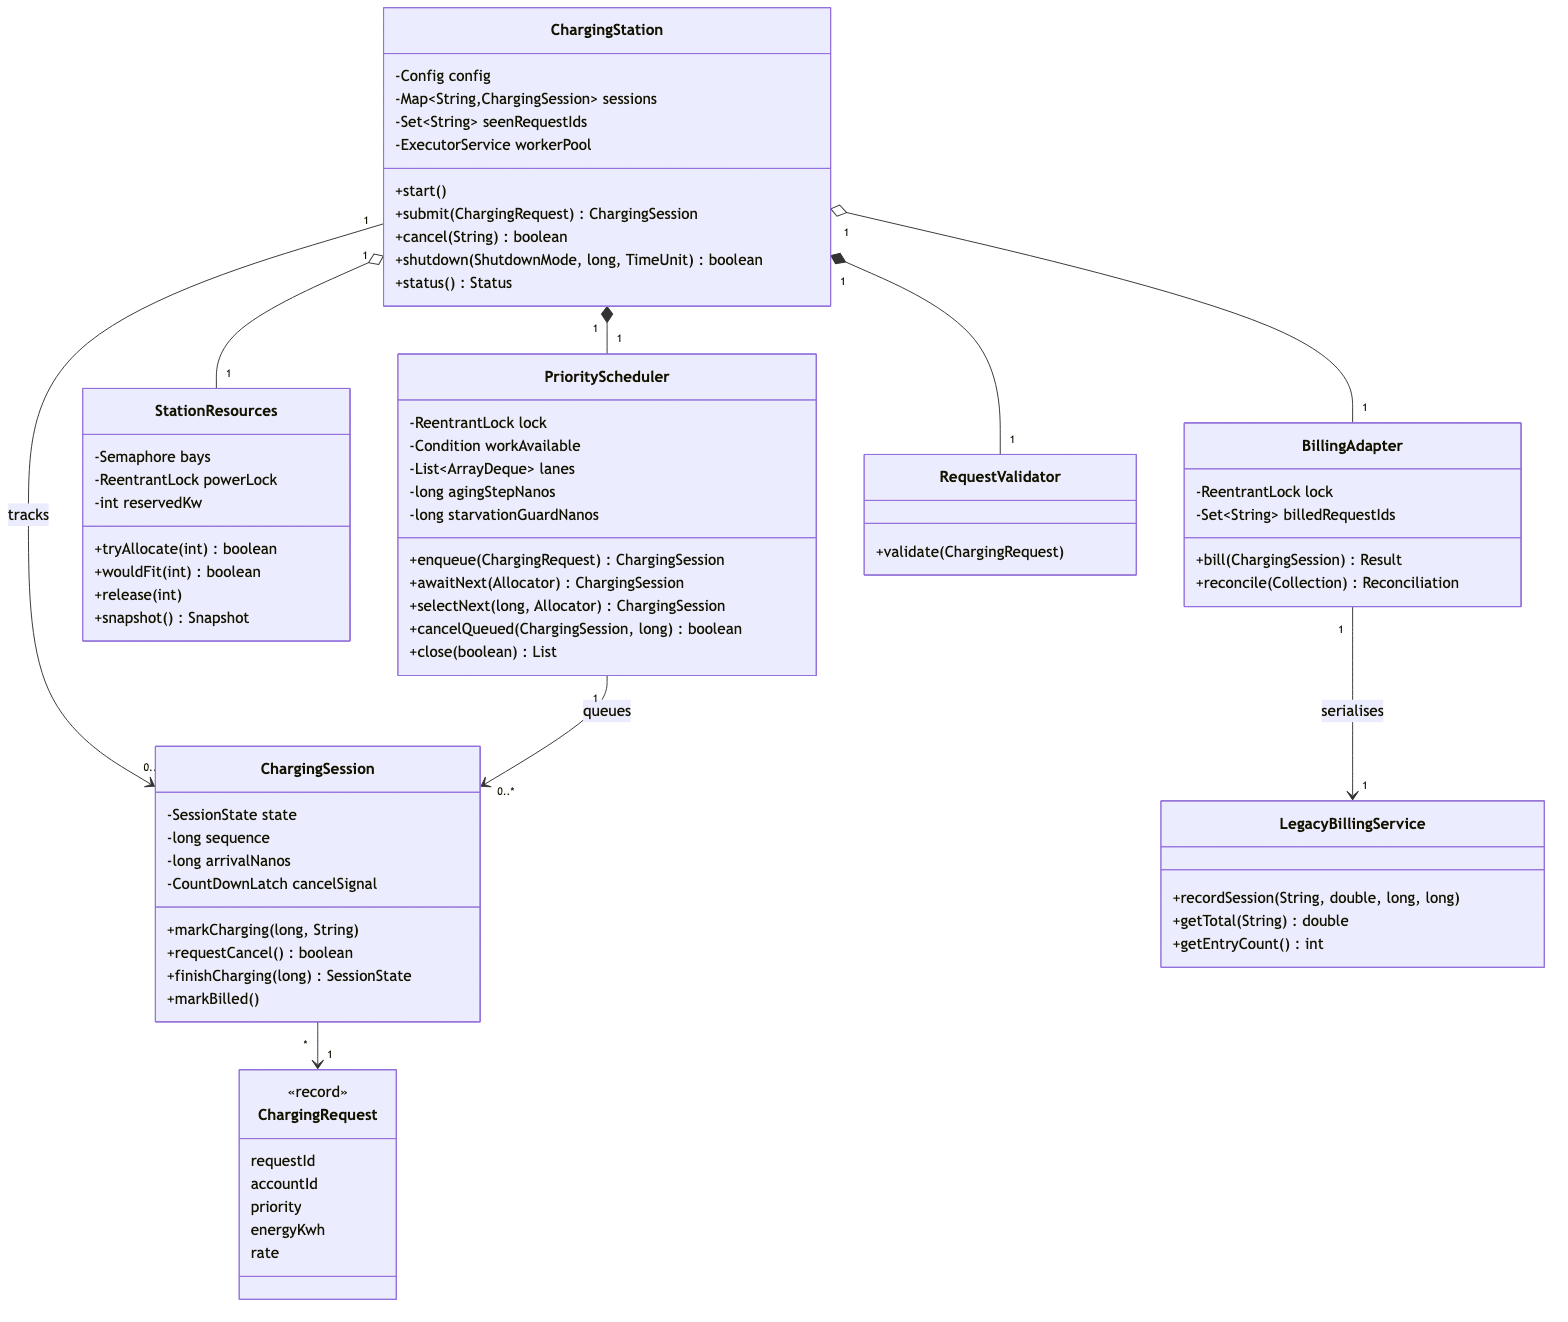
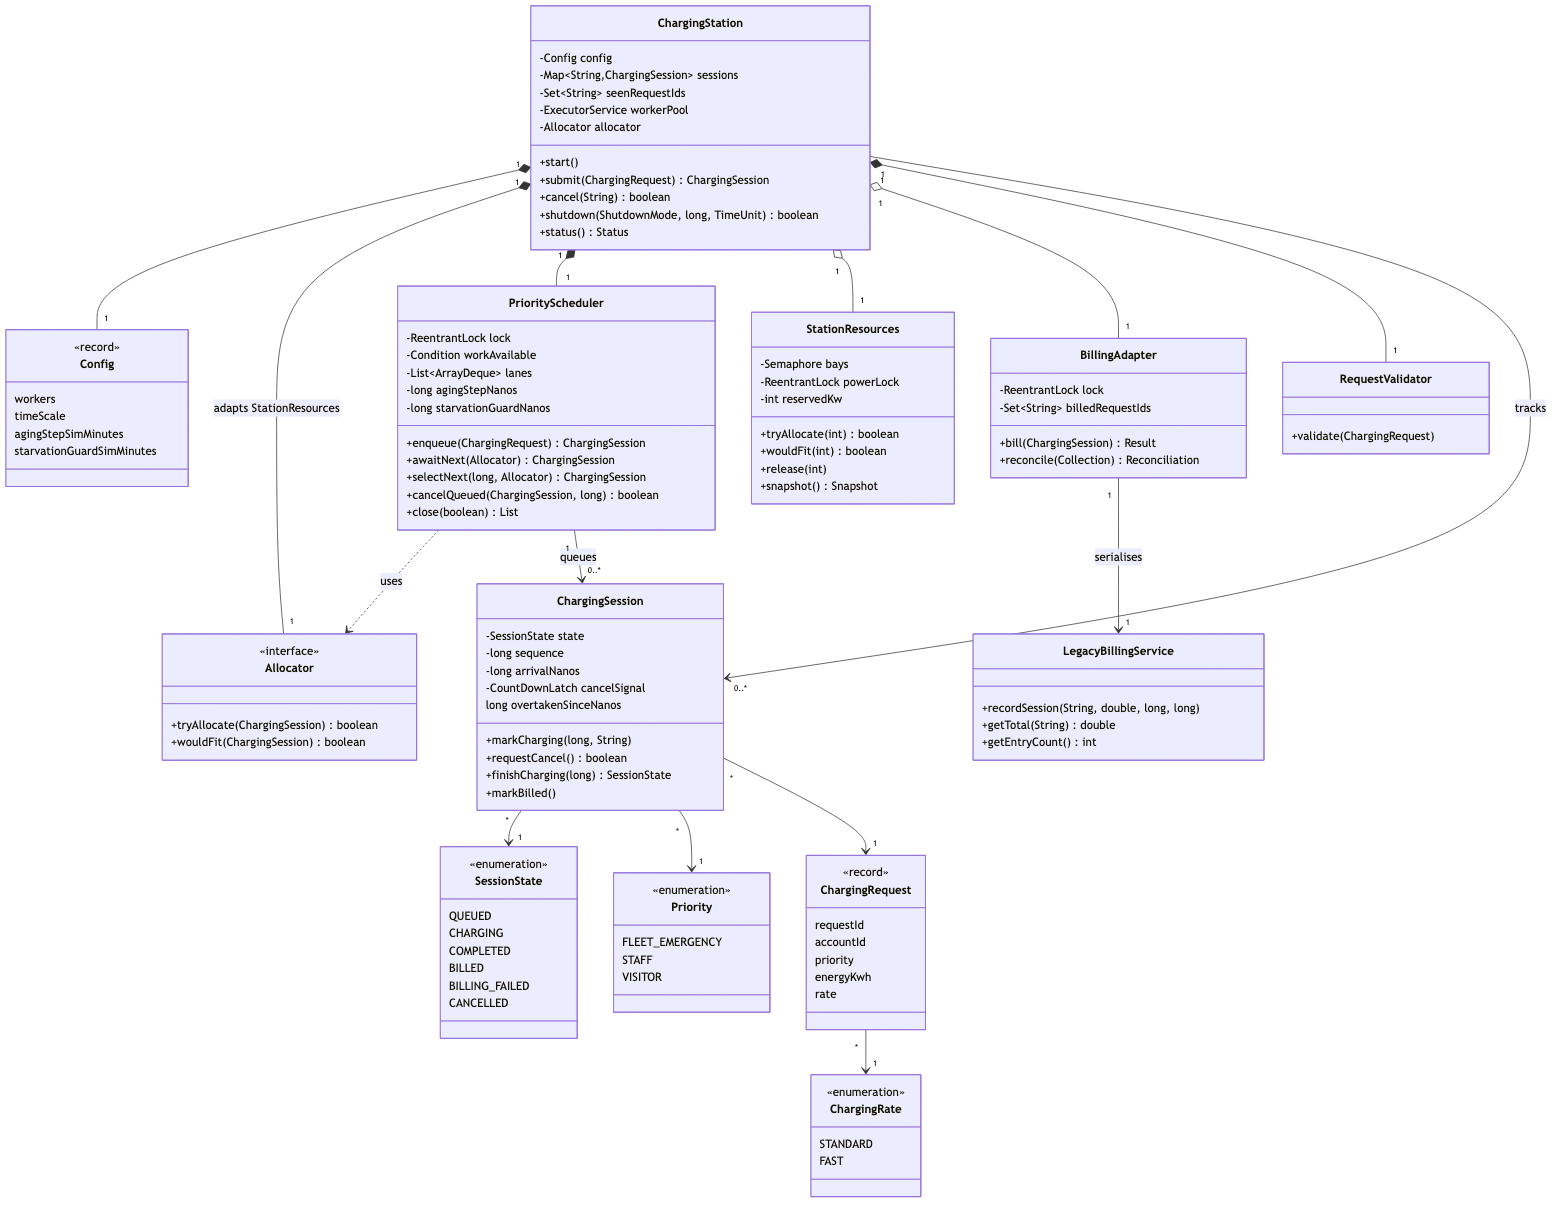
Complete UML models: Allocator/Config/enums in class diagram, cancel and billing-failure paths in sequence, include stereotype; trace contract violations to tests

diff --git a/docs/design.md b/docs/design.md
@@ -68,9 +68,18 @@ arrival in the same lane has waited at least as long, so the merge needs no sort
 
 1. **Effective priority** = `max(1, base − ⌊waited / 30 sim-min⌋)` (FR-06).
 2. Walk the merged order; the first request whose allocation succeeds starts (FR-05, FR-07).
-3. When a later request starts ahead of a front request that could not fit (a backfill), start the
-   guard clock for that front request if it is not already running. Once the same request is still the
-   front 30 sim-min after its first overtake, return nothing until it fits itself (FR-08).
+3. When a later request starts ahead of a front request that could not fit (a backfill), record
+   that front request's *first overtake time* if it has none yet (`ChargingSession.overtakenSinceNanos`).
+   Whenever a request is at the front, has been overtaken, and its first overtake was at least
+   30 sim-min ago, return nothing until it fits itself (FR-08). Running sessions are unaffected and
+   finish normally, which is what eventually frees the power it needs.
+
+The clock is stored on the request, not on "whichever request is currently at the front". The
+previous version kept a single scheduler-wide clock that restarted whenever the front request
+changed. Aging could briefly put an older visitor in front, wiping the blocked fleet request's
+accumulated time. T25 checks the fix with an explicit clock: F is overtaken at t=2; an aged visitor
+becomes front at t=61 and starts at t=62; at t=63 F is front again and backfill is refused at once.
+Observed: `[S1, S2, V, none]`.
 
 Why the clock starts at the first overtake (a design change made during evaluation): the first
 version started it at the first *failed check* of the front request. Spare threads (pool-16,
@@ -86,6 +95,13 @@ thread-per-request run (`evidence/benchmark-runs.csv`).
 Worked example (from T17): a P1 fast request F cannot fit (only 9 kW free); P2 standard S1, S2 can.
 At t=10 S1 backfills; at t=39 S2 backfills; at t=40 F has been the blocked front for 30 → nothing starts
 even though S3 would fit; once 22 kW is free F starts, then S3. Observed: `[S1, S2, none, F, S3]`.
+
+The same behaviour on a running station (T24, `evidence/test-logs/T24.txt`):
+- **Setup:** two fast sessions are charging (44 kW) and a third fast request F3 is blocked.
+- **Backfill:** S1 and S2 (standard) backfill. The guard then engages about 40 ms (≈ 40 sim-min) later.
+- **Cost:** while it holds, 2 bays and 16 kW stay idle — the accepted cost in A-06.
+- **Outcome:** when a fast session ends, F3 starts within a fraction of a millisecond. Only then do
+  the standards S3–S8 that were waiting start.
 
 Design note from the benchmark: under the evaluated load average waits are ~10 simulated hours, far
 longer than the 30-minute aging step, so almost every queued request is aged to level 1 and order
@@ -129,7 +145,7 @@ See §6.
 
 Two forms: (a) visitors overtaken forever by a stream of higher-priority requests — addressed by aging
 (T16); (b) a large (fast) request overtaken forever by smaller backfilled requests — aging cannot help a
-P1 request, so the starvation guard bounds it (T17). Limitation: bays, not power, are usually the
+P1 request, so the starvation guard bounds it (T17, T24, T25). Limitation: bays, not power, are usually the
 binding constraint for this workload, so backfill is rare (4 backfills in a 200-request run) and the
 guard activated in only 1 of 12 benchmark runs; its behaviour is primarily evidenced by the
 deterministic test T17.
@@ -188,16 +204,16 @@ The corrected variant with the same threads and interleaving completes (T20).
 | C5 | `ChargingSession` transitions | current state matches the transition's source state | state follows the state machine in §8 | terminal states never change |
 | C6 | `ChargingStation.shutdown(mode)` | station RUNNING | all station threads terminated ∧ reservedKw = 0 ∧ activeBays = 0 ∧ no session QUEUED/CHARGING | — |
 
-**Traceability** (requirement → model element → enforcement → test):
+**Traceability** (requirement → model element → enforcement → behaviour on violation → test):
 
-| # | Requirements | Model elements (§8) | Code enforcement | Tests / evidence |
-|---|---|---|---|---|
-| C1 | FR-09, FR-10, NFR-01 | Class: `StationResources.tryAllocate`; Sequence: `tryAllocate(kW) [power lock, bays.tryAcquire]`; State: QUEUED → CHARGING; Use case: UC4 | `IllegalArgumentException`; power lock; non-blocking `bays.tryAcquire()`; `assert invariantHolds()` | T03, T06, T07, T18, T20; benchmark peaks ≤ 4 bays / 58 kW |
-| C2 | FR-17 | Class: `StationResources.release`; Sequence: `release(kW) [finally]`; State: leaving COMPLETED / BILLED / BILLING_FAILED / CANCELLED after CHARGING; Use case: UC4 | `IllegalStateException` on unmatched release; `assert invariantHolds()`; called only from the `finally` in `runSession` | T09, T10, T14 |
-| C3 | FR-13, FR-14, FR-16, NFR-08 | Class: `BillingAdapter.bill` → `LegacyBillingService`; Sequence: `bill(session)`, `recordSession(...)`; State: COMPLETED → BILLED / BILLING_FAILED; Use case: UC5 | billing lock; `billedRequestIds` set; `IllegalStateException` if not COMPLETED; `assert` entry count grew by exactly 1 | T12, T14, T15; T13 for contrast |
-| C4 | FR-05–FR-08 | Class: `PriorityScheduler.selectNext`, `awaitNext`; Sequence: `awaitNext(allocator)`; State: QUEUED → CHARGING; Use case: UC1 | scheduler lock; `MergedOrder` ordering; aging in `effectivePriority`; guard via `recordOvertake` | T04, T16, T17 |
-| C5 | FR-12, FR-14, FR-15 | Class: `ChargingSession`; State: the whole session state machine; Use cases: UC2, UC4 | `synchronized` transitions; `IllegalStateException` on an illegal source state | T08, T09, T10, T11 |
-| C6 | FR-19 | Class: `ChargingStation.shutdown`; State: QUEUED / CHARGING → CANCELLED (IMMEDIATE), → COMPLETED → BILLED (GRACEFUL); Use case: UC8 | lifecycle compare-and-set; executor `awaitTermination` / `join`; `assert` that resources are 0 after termination | T10, T11; `SHUTDOWN complete` lines in `evidence/normal-run-*.txt` |
+| # | Requirements | Model elements (§8) | Code enforcement | On violation | Tests: contract holds / violation rejected |
+|---|---|---|---|---|---|
+| C1 | FR-09, FR-10, NFR-01 | Class: `StationResources.tryAllocate`; Sequence: `tryAllocate(kW) [power lock, bays.tryAcquire]`; State: QUEUED → CHARGING; Use case: UC4 | precondition check; power lock; non-blocking `bays.tryAcquire()`; `assert invariantHolds()` | kw ≤ 0 → `IllegalArgumentException`, ledger unchanged; a broken invariant → `AssertionError` (with `-ea`) | holds: T03, T06, T07, T18, T20, benchmark peaks / rejected: T21 |
+| C2 | FR-17 | Class: `StationResources.release`; Sequence: `release(kW) [finally]`; State: leaving COMPLETED / BILLED / BILLING_FAILED / CANCELLED after CHARGING; Use case: UC4 | precondition check under the power lock; `assert invariantHolds()`; only called from the `finally` in `runSession` | unmatched or oversized release → `IllegalStateException`, ledger unchanged | holds: T09, T10, T14 / rejected: T21 |
+| C3 | FR-13, FR-14, FR-16, NFR-08 | Class: `BillingAdapter.bill` → `LegacyBillingService`; Sequence: `bill(session)`, `recordSession(...)`, `alt` billing failure; State: COMPLETED → BILLED / BILLING_FAILED; Use case: UC5 | billing lock; `billedRequestIds` set; state precondition; `assert` entry count grew by exactly 1 | repeat call → `DUPLICATE_IGNORED`, no entry; non-COMPLETED session → `IllegalStateException`, no entry; legacy failure → BILLING_FAILED, no entry | holds: T12, T14, T15 (T13 for contrast) / rejected: T22 |
+| C4 | FR-05–FR-08 | Class: `PriorityScheduler.selectNext`, `awaitNext`, `Allocator`; Sequence: `awaitNext(allocator)`; State: QUEUED → CHARGING; Use case: UC1 | scheduler lock; `MergedOrder` ordering; aging in `effectivePriority`; per-request guard clock `overtakenSinceNanos` | not an input contract: the postcondition is guaranteed by construction and checked by ordering tests | T04, T16, T17, T24, T25 |
+| C5 | FR-12, FR-14, FR-15 | Class: `ChargingSession`; State: the whole session state machine; Use cases: UC2, UC4 | `synchronized` transitions with a source-state check | illegal transition → `IllegalStateException`, state unchanged | holds: T08, T09, T10, T11 / rejected: T22 |
+| C6 | FR-19 | Class: `ChargingStation.shutdown`; State: QUEUED / CHARGING → CANCELLED (IMMEDIATE), → COMPLETED → BILLED (GRACEFUL); Use case: UC8 | lifecycle state check; executor `awaitTermination` / `join`; `assert` resources are 0 after termination | shutdown when not RUNNING, or submit after shutdown → `IllegalStateException`, nothing queued | holds: T10, T11, `SHUTDOWN complete` lines in `evidence/normal-run-*.txt` / rejected: T23 |
 
 ## 8. Models (implementation-aligned)
 
@@ -214,6 +230,7 @@ classDiagram
       -Map~String,ChargingSession~ sessions
       -Set~String~ seenRequestIds
       -ExecutorService workerPool
+      -Allocator allocator
       +start()
       +submit(ChargingRequest) ChargingSession
       +cancel(String) boolean
@@ -246,6 +263,7 @@ classDiagram
       -long sequence
       -long arrivalNanos
       -CountDownLatch cancelSignal
+      long overtakenSinceNanos
       +markCharging(long, String)
       +requestCancel() boolean
       +finishCharging(long) SessionState
@@ -273,6 +291,44 @@ classDiagram
     class RequestValidator {
       +validate(ChargingRequest)
     }
+    class Allocator {
+      <<interface>>
+      +tryAllocate(ChargingSession) boolean
+      +wouldFit(ChargingSession) boolean
+    }
+    class Config {
+      <<record>>
+      workers
+      timeScale
+      agingStepSimMinutes
+      starvationGuardSimMinutes
+    }
+    class SessionState {
+      <<enumeration>>
+      QUEUED
+      CHARGING
+      COMPLETED
+      BILLED
+      BILLING_FAILED
+      CANCELLED
+    }
+    class Priority {
+      <<enumeration>>
+      FLEET_EMERGENCY
+      STAFF
+      VISITOR
+    }
+    class ChargingRate {
+      <<enumeration>>
+      STANDARD
+      FAST
+    }
+    ChargingStation "1" *-- "1" Config
+    ChargingStation "1" *-- "1" Allocator : adapts StationResources
+    PriorityScheduler ..> Allocator : uses
+    ChargingSession "*" --> "1" SessionState
+    ChargingSession "*" --> "1" Priority
+    ChargingRequest "*" --> "1" ChargingRate
     ChargingStation "1" *-- "1" PriorityScheduler
     ChargingStation "1" o-- "1" StationResources
     ChargingStation "1" o-- "1" BillingAdapter
@@ -322,18 +378,28 @@ sequenceDiagram
     R-->>Sc: true
     Sc-->>W: session (CHARGING)
     W->>W: awaitCancellation(duration)
-    W->>W: finishCharging() -> COMPLETED
-    W->>B: bill(session) [billing lock]
-    B->>L: recordSession(...)
-    B-->>W: BILLED
-    W->>R: release(kW) [finally]
+    alt cancel() or IMMEDIATE shutdown during charging
+        W->>W: finishCharging() -> CANCELLED (not billed)
+    else duration elapsed
+        W->>W: finishCharging() -> COMPLETED
+        W->>B: bill(session) [billing lock]
+        B->>L: recordSession(...)
+        alt legacy call succeeds
+            B-->>W: BILLED
+        else legacy throws
+            B-->>W: FAILED (session BILLING_FAILED, no entry)
+        end
+    end
+    W->>R: release(kW) [finally, every path]
     W->>Sc: capacityReleased() -> signal
 ```
 
 ### Use case model
 
-Mermaid has no native use case notation, so actors are drawn as nodes outside the system boundary,
-use cases as rounded nodes inside it, and `include` relationships as dotted arrows.
+Mermaid has no native use case notation, so the diagram adapts flowchart notation:
+- actors are nodes outside the system boundary;
+- use cases are rounded nodes inside it;
+- `«include»` relationships are dashed arrows labelled with the UML stereotype.
 
 ```mermaid
 flowchart LR
@@ -360,9 +426,9 @@ flowchart LR
     Operator --- UC7
     Operator --- UC8
     UC9 --- Engineer
-    UC1 -. include .-> UC3
-    UC1 -. include .-> UC4
-    UC4 -. include .-> UC5
+    UC1 -. "«include»" .-> UC3
+    UC1 -. "«include»" .-> UC4
+    UC4 -. "«include»" .-> UC5
     UC5 --- Billing
 ```
 
@@ -385,5 +451,7 @@ flowchart LR
 - Timing uses timed waits on a scaled clock; every session overruns its nominal length by ~3.2–3.9
   sim-min (ms) on the test machine (`avg_overrun_sim_min` in the benchmark CSV), equally across
   configurations.
-- The starvation guard rarely activates under the evaluated workload; it is verified mainly by T17.
+- The starvation guard rarely activates under the evaluated benchmark workload. It is verified by a
+  policy test with an explicit clock (T17, T25) and by an integrated station test that forces the
+  situation (T24).
 - `start()` must be called once by the owning thread; it is not designed for concurrent callers.
